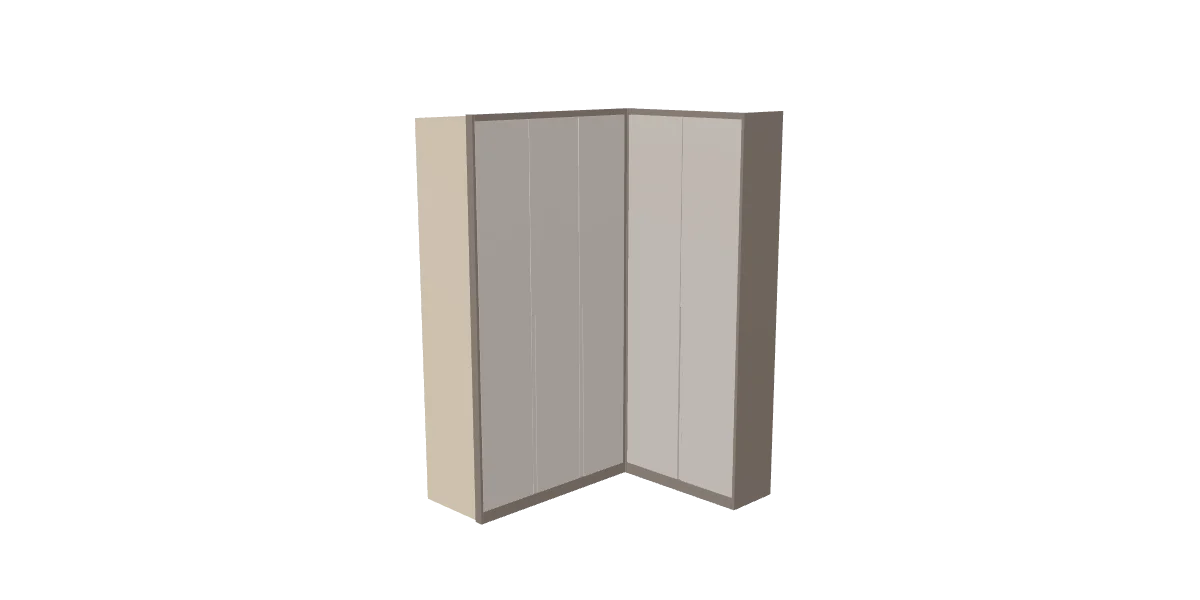
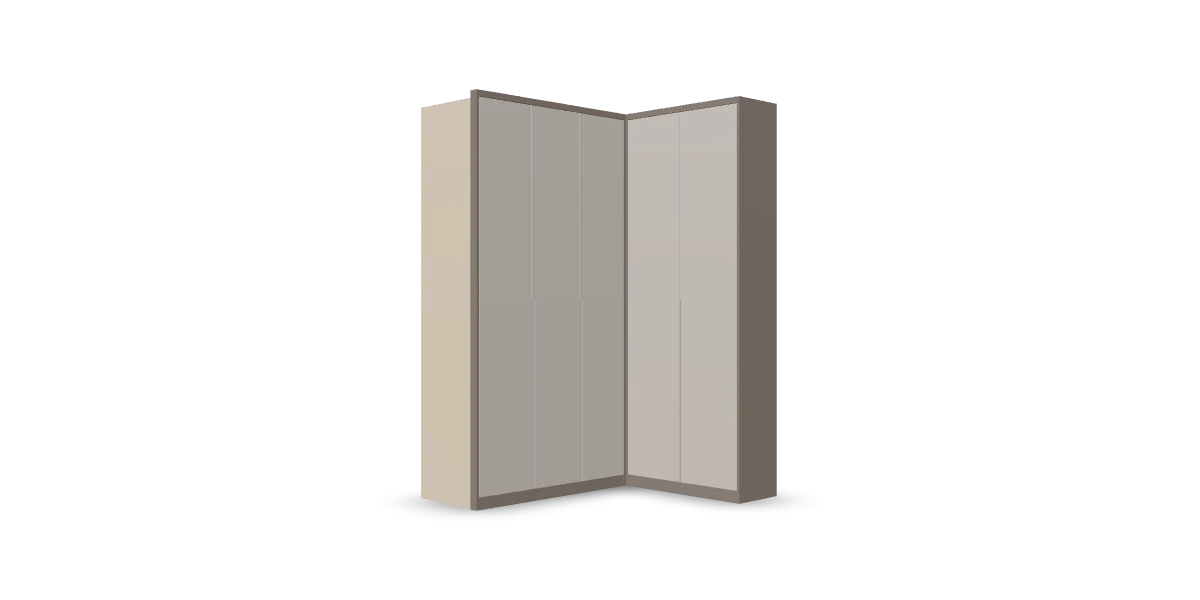
Show the hero's 3D wardrobe at eye level, with a working shadow
The camera now looks at the wardrobe straight on, level with its
middle, instead of from 12° above, so its upright edges stay upright.

The soft floor shadow never showed: drei's ContactShadows blurs its
shadow on a plane at the world's origin, and the wardrobe stood off it.
The model is now centred over the origin and stands on y = 0, and the
shadow is stronger (opacity 0.9, blur 4) and takes in only the lowest
tenth of the wardrobe.

The loading still (wardrobe-model-poster.webp) is rendered again to
match.

Changed region(s): [[0.3392, 0.63, 0.6475, 0.87], [0.3392, 0.15, 0.6783, 0.42]]

diff --git a/src/components/Homepage/HomepageWardrobeModel.jsx b/src/components/Homepage/HomepageWardrobeModel.jsx
@@ -7,16 +7,25 @@ import { Box3, MathUtils, NeutralToneMapping, Vector3 } from "three";
 import modelUrl from "../../assets/wardrobe_25122.glb?url";
 
 // The model is turned so the open side of the corner faces the camera, and the camera looks at it
-// a little from above.
+// straight on, level with its middle, so its upright edges stay upright instead of leaning in
+// towards the bottom as they do when it's seen from above. If this changes, render the hero's
+// still (wardrobe-model-poster.webp) again; the same goes for the shadow and the lights.
 const MODEL_TURN = MathUtils.degToRad(45);
 const VIEW_AZIMUTH = 0;
-const VIEW_ELEVATION = MathUtils.degToRad(12);
+const VIEW_ELEVATION = 0;
 // Visitors can turn the wardrobe all the way round, and tilt the view from almost straight down
 // to eye level, but never below the floor.
 const MIN_POLAR = MathUtils.degToRad(20);
 const MAX_POLAR = MathUtils.degToRad(90);
 // Share of the canvas height the wardrobe fills.
 const FILL = 0.74;
+// The soft shadow on the floor. It sits a hair below the wardrobe (a share of its height): level
+// with it, the shadow's camera would cut off the bottom panel, which casts most of the shadow. It
+// takes in only the lowest tenth of the wardrobe, so shelves higher up don't thin it out.
+const SHADOW_DROP = 0.005;
+const SHADOW_REACH = 0.1;
+const SHADOW_OPACITY = 0.9;
+const SHADOW_BLUR = 4;
 // The model's animation lasts 3.3 s; slowed down ten times it takes as long as the video's loop.
 const ANIMATION_SPEED = 0.1;
 
@@ -26,9 +35,15 @@ const Wardrobe = ({ animate, onReady }) => {
   const { actions } = useAnimations(animations, group);
   const camera = useThree((state) => state.camera);
   const controls = useThree((state) => state.controls);
-  // Turn the model before measuring it, so the frame and the shadow fit the turned wardrobe.
+  // Turn the model before measuring it, so the frame and the shadow fit the turned wardrobe. Then
+  // stand it on the floor (y = 0) and centre it over the origin: ContactShadows blurs its shadow on
+  // a plane at the world's origin, so a shadow anywhere else slides off with every blur pass.
   const box = useMemo(() => {
     scene.rotation.y = MODEL_TURN;
+    scene.position.set(0, 0, 0);
+    const turned = new Box3().setFromObject(scene);
+    const center = turned.getCenter(new Vector3());
+    scene.position.set(-center.x, -turned.min.y, -center.z);
     return new Box3().setFromObject(scene);
   }, [scene]);
 
@@ -56,11 +71,11 @@ const Wardrobe = ({ animate, onReady }) => {
     <>
       <primitive ref={group} object={scene} />
       <ContactShadows
-        position={[box.getCenter(new Vector3()).x, box.min.y, box.getCenter(new Vector3()).z]}
+        position={[0, -size.y * SHADOW_DROP, 0]}
         scale={Math.max(size.x, size.z) * 1.8}
-        opacity={0.45}
-        blur={2.4}
-        far={size.y / 3}
+        opacity={SHADOW_OPACITY}
+        blur={SHADOW_BLUR}
+        far={size.y * SHADOW_REACH}
       />
     </>
   );
